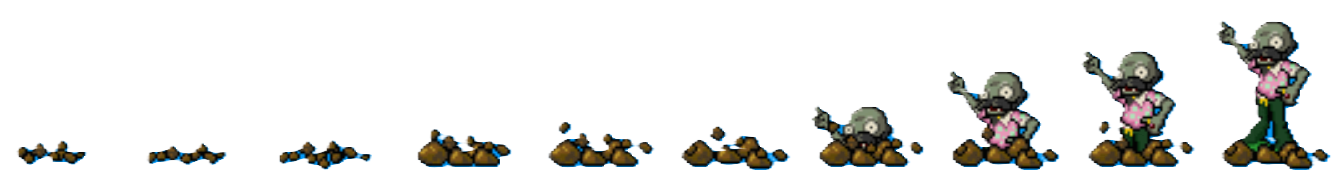
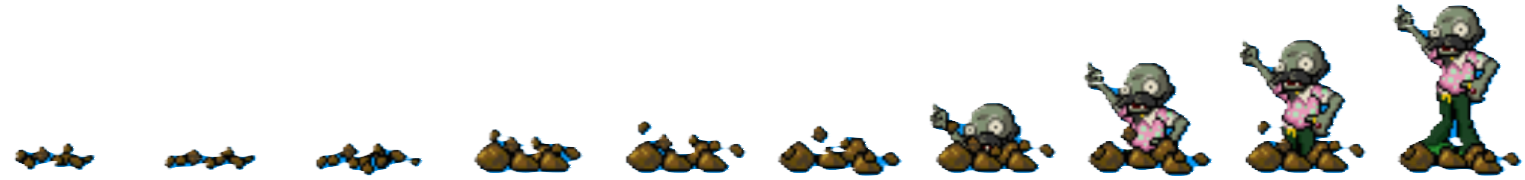
Football Zombie smoother movement Balloon Zombie Updated Background Textures Updated Main Menu Texture

Changed region(s): [[0.3069, 0.0282, 1.0, 0.9887], [0.0921, 0.791, 0.2762, 0.9887], [0.0, 0.791, 0.0614, 0.9322]]

diff --git a/PlayGameScreen.cpp b/PlayGameScreen.cpp
@@ -1,13 +1,23 @@
 #include "PlayGameScreen.h"
 #include "ZombieFactory.h"
 
+// Grid 
+// origin	  -->   [300px ,85px]
+// SE corner  -->   [1155px, 675px]
+// width	  -->	1155px - 300px = 855px
+// height	  -->	675px - 85px = 590px
+// tile		  -->	95px * 118px
+
+const int tile_dx = 95;
+const int tile_dy = 118;
+
 //Drawing the background
 void createBack(RenderWindow& window) {
 	//Drawing the background
 	Image map_image;
-	map_image.loadFromFile("./Images/backwindow.jpg");
+	//map_image.loadFromFile("./Images/backwindow.jpg");
 	//map_image.loadFromFile("./Images/lvl_1_w_back.png");   //"../SFML/Images/backwindow.jpg"
-	//map_image.loadFromFile("./Images/lvl_2_w_back.png");   //"../SFML/Images/backwindow.jpg"
+	map_image.loadFromFile("./Images/lvl_2_w_back.png");   //"../SFML/Images/backwindow.jpg"
 	//map_image.loadFromFile("./Images/lvl_5_w_back.png");   //"../SFML/Images/backwindow.jpg"
 	Texture map;
 	map.loadFromImage(map_image);
@@ -19,6 +29,9 @@ void createBack(RenderWindow& window) {
 
 //Drawing the map
 void createMap(RenderWindow& window) {
+
+	return;
+
 	//Drawing a map
 	Image map_image;//объект изображения для карты
 	map_image.loadFromFile("./Images/lvl_1_map.png");//load the file for the map
@@ -41,21 +54,7 @@ PlayGameScreen::PlayGameScreen()
 
 void PlayGameScreen::render()
 {
-	//window.create(VideoMode(1200, 700), "Game");
-	//while (window.isOpen())
-	//{
 
-	//	Event e;
-	//	while (window.pollEvent(e))
-	//	{
-	//		if (e.type == Event::Closed)
-	//			window.close();
-	//	}
-
-	//	window.clear();
-	//	window.draw(sprite);
-	//	window.display();
-	//}
 
 
 	srand(time(0));
@@ -93,7 +92,7 @@ void PlayGameScreen::render()
 
 	Clock clock;
 	Clock time;
-	window.setFramerateLimit(10);
+	window.setFramerateLimit(20);
 
 	//Zombie z1(200, 1, 20, 1000, 150);
 	ZombieFactory zf;
@@ -119,6 +118,11 @@ void PlayGameScreen::render()
 		{
 			if (event.type == Event::Closed)
 				window.close();
+
+
+
+			if (event.type == Event::MouseButtonReleased)
+				std::cout << "Game --> x: " << Mouse::getPosition(window).x << " y: " << Mouse::getPosition(window).y << "\n";
 		}
 
 

diff --git a/FootballZombie.cpp b/FootballZombie.cpp
@@ -2,15 +2,38 @@
 
 FootballZombie::FootballZombie(int health, int speed, int damage, int x, int y) : Zombie(health, speed, damage, x, y) 
 {
-	image.loadFromFile("./Images/ffzanimation.png");
+	switchTime = 0.15;
+	//image.loadFromFile("./Images/image_2_2.png");
 
-	texture.loadFromImage(image);
+	//texture.loadFromImage(image);
+	texture.loadFromFile("./Images/image_2_2.png");
 	sprite.setTexture(texture);
-	sprite.setTextureRect(IntRect(offset * 176, 0, 176, 196));
+	sprite.setTextureRect(IntRect(offset * 215, 0, 215, 180));
 
 
 
 	sprite.setPosition(Pos.x, Pos.y);
+}
+
+void FootballZombie::switchLane(int dir)
+{
+	if (dir == 0)
+	{
+		Pos.y += speed * 3;
+		if (Pos.y >= 118 * 3 + 85 - 180 && Pos.y <= 118 * 4 + 85 - 180)
+			switchRow = 2;
+
+		return;
+	}
+
+	if (dir == 1)
+	{
+		Pos.y -= speed * 3;
+		if (Pos.y >= 118 * 0 + 85 - 180 && Pos.y <= 118 * 1 + 85 - 180)
+			switchRow = 2;
+
+		return;
+	}
 }
 
 void FootballZombie::UpdateAnimation(float deltaTime)
@@ -21,20 +44,20 @@ void FootballZombie::UpdateAnimation(float deltaTime)
 		Total_Animation_Time -= switchTime;
 		offset++;
 
-		if (offset == 3)
+		if (offset == 6)
 			offset = 0;
 	}
 	
-	if (health >= 300)
-	{
-		sprite.setTextureRect(IntRect(offset * 176, 0, 176, 196));
-		return;
-	}
+	//if (health >= 300)
+	//{
+		sprite.setTextureRect(IntRect(offset * 215, 0, 215, 180));
+	//	return;
+	//}
 
 
 
-	texture.loadFromFile("./Images/hfzanimation.png");
-	sprite.setTextureRect(IntRect(offset * 237, 0, 237, 212));
+	//texture.loadFromFile("./Images/hfzanimation.png");
+	//sprite.setTextureRect(IntRect(offset * 237, 0, 237, 212));
 
 }
 
@@ -45,15 +68,16 @@ void FootballZombie::Move()
 
 	int random = rand() % 20;
 	
-	if (random == 0 && Pos.y <= 514 - 108)
+	if (random == 0 && Pos.y <= 118*4 + 85 - 180)
 	{
-		Pos.y += 108;
+		switchRow = 0;
 	}
 
-	if (random == 19 && Pos.y >= 62 + 108)
+	if (random == 19 && Pos.y >= 118*0 + 85)
 	{
-		Pos.y -= 108;
+		switchRow = 1;
 	}
 
+	switchLane(switchRow);
 	sprite.setPosition(Pos.x, Pos.y);
 }

diff --git a/Zombie.cpp b/Zombie.cpp
@@ -1,12 +1,16 @@
 #include "Zombie.h"
 
-Zombie::Zombie(int health, int speed, int damage, int x, int y) :Pos(x, y), health(health), speed(speed), damage(damage), offset(0), Total_Animation_Time(0), switchTime(0.6)
+Zombie::Zombie(int health, int speed, int damage, int x, int y, int pixelsX, int pixelsY) 
+	: Pos(x, y), health(health), speed(speed), damage(damage), offset(0), Total_Animation_Time(0), switchTime(0.3), pixelsX(pixelsX), pixelsY(pixelsY)
 {
-	image.loadFromFile("./Images/zanimation2.png");
+	//switchTime = 0.15;
+	//image.loadFromFile("./Images/zanimation2.png");
+	//image.loadFromFile("./Images/zombie.png");
 
-	texture.loadFromImage(image);
+	//texture.loadFromImage(image);
+	texture.loadFromFile("./Images/zombie.png");
 	sprite.setTexture(texture);
-	sprite.setTextureRect(IntRect(offset * 120, 0, 120, 190));
+	sprite.setTextureRect(IntRect(0, 0, pixelsX, pixelsY));
 	sprite.setPosition(Pos.x, Pos.y);
 }
 
@@ -29,10 +33,10 @@ void Zombie::UpdateAnimation(float deltaTime)
 		Total_Animation_Time -= switchTime;
 		offset++;
 
-		if (offset > 2)
+		if (offset == 5)
 			offset = 0;
 	}
-	sprite.setTextureRect(IntRect(offset * 120, 0, 120, 190));
+	sprite.setTextureRect(IntRect(offset * pixelsX, 0, pixelsX, pixelsY));
 }
 
 void Zombie::Move()
@@ -50,5 +54,5 @@ int Zombie::getHealth() const
 
 int randGrid(int Y_pixels)
 {
-	return (108 * (rand() % 5 - 1)) + Y_pixels;
+	return (118 * (rand() % 4 + 1 )) + 85 - Y_pixels;
 }

diff --git a/BalloonZombie.cpp b/BalloonZombie.cpp
@@ -1,0 +1,53 @@
+#include "BalloonZombie.h"
+
+BalloonZombie::BalloonZombie(int health, int speed, int damage, int x, int y) : Zombie(health,speed,damage,x,y), ballonIsPopped(false), pixelsX(150), pixelsY(210)
+{
+	texture.loadFromFile("./Images/balloon.png");
+	
+	sprite.setTexture(texture);
+	sprite.setTextureRect(IntRect(0, 0, pixelsX, pixelsY));
+}
+
+void BalloonZombie::UpdateAnimation(float deltaTime)
+{
+	if (health <= 150)
+		ballonIsPopped = true;
+
+	if (ballonIsPopped)
+	{
+		pixelsX = 164;
+		pixelsY = 180;
+		speed = 1;
+		texture.loadFromFile("./Images/zombie.png");
+		sprite.setTexture(texture);
+		sprite.setTextureRect(IntRect(0, 0, pixelsX, pixelsY));
+	}
+
+	Total_Animation_Time += deltaTime;
+	if (Total_Animation_Time >= switchTime)
+	{
+		Total_Animation_Time -= switchTime;
+		offset++;
+		if (offset == 3)
+			offset = 0;
+
+	}
+
+	sprite.setTextureRect(IntRect(offset * pixelsX, 0, pixelsX, pixelsY));
+}
+
+//void BalloonZombie::fly()
+//{
+//
+//}
+
+void BalloonZombie::move()
+{
+	Pos.x -= speed;
+
+	// Testing
+	health -= 2;
+	//========
+	
+	sprite.setPosition(Pos.x, Pos.y);
+}

diff --git a/Zombie.h b/Zombie.h
@@ -13,17 +13,19 @@ protected:
 	int speed;
 	int damage;
 
-	Image image;
+	//Image image;
 	float Total_Animation_Time;
 	float switchTime;
 	int offset;
+	int pixelsX;
+	int pixelsY;
 	
 	Texture texture;
 	Sprite sprite;
 	coordinates Pos;
 
 public:
-	Zombie(int=200, int=1, int=5, int=1000, int=randGrid(190));
+	Zombie(int=200, int=1, int=5, int=1000, int=randGrid(180), int=164, int=180);
 	virtual void Draw(RenderWindow&, float);
 	virtual void Move();
 	virtual void UpdateAnimation(float interval);

diff --git a/ZombieFactory.cpp b/ZombieFactory.cpp
@@ -58,7 +58,7 @@ void ZombieFactory::spawnZombie()
 	if (num_Of_Zombie >= zombie_Limit)
 		return;
 
-	switch (rand() % 3)
+	switch (rand() % 4)
 	{
 		case 0:
 			zombies[num_Of_Zombie] = new Zombie;
@@ -71,6 +71,11 @@ void ZombieFactory::spawnZombie()
 		case 2:
 			zombies[num_Of_Zombie] = new DancingZombie;
 			break;
+
+		case 3:
+			zombies[num_Of_Zombie] = new BalloonZombie;
+			break;
+
 	}
 	num_Of_Zombie++;
 }

diff --git a/DancingZombie.h b/DancingZombie.h
@@ -10,7 +10,7 @@ class DancingZombie : public Zombie
 	Clock clock;
 
 public:
-	DancingZombie(float = 10, int = 4, int = 200, int = 1, int = 5, int = 1000, int = randGrid(170));
+	DancingZombie(float = 10, int = 4, int = 200, int = 1, int = 5, int = 1000, int = randGrid(180));
 	void SpawnBackUp();
 	void UpdateAnimation(float deltaTime);
 	void Draw(RenderWindow&, float);

diff --git a/FootballZombie.h b/FootballZombie.h
@@ -6,10 +6,13 @@ class FootballZombie : public Zombie
 {
 
 //	int offset_y = 0;
-
+	int switchRow = 2;
 public:
-	FootballZombie(int = 600, int = 3, int = 8, int = 1000, int = randGrid(170));
+	FootballZombie(int = 600, int = 3, int = 8, int = 1000, int = randGrid(180));
 	void UpdateAnimation(float deltaTime);
 	void Move();
+	void switchLane(int);
+
+
 };
 

diff --git a/BalloonZombie.h b/BalloonZombie.h
@@ -1,0 +1,16 @@
+#pragma once
+#include "Zombie.h"
+class BalloonZombie :public Zombie
+{
+
+	bool ballonIsPopped;
+	int pixelsX;
+	int pixelsY;
+public:
+	BalloonZombie(int=200,int=3,int=5,int=1000,int=randGrid(180));
+	void UpdateAnimation(float deltaTime);
+	//void fly();
+	void move();
+
+};
+

diff --git a/BackUpDancer.cpp b/BackUpDancer.cpp
@@ -60,7 +60,7 @@ void BackUpDancer::SpawnAnimation(float deltaTime)
 		}
 	}
 
-	sprite.setTextureRect(IntRect(offset * 134, 0, 134, 177));
+	sprite.setTextureRect(IntRect(offset * 153, 0, 153, 180));
 	sprite.setPosition(Pos.x, Pos.y);
 }
 

diff --git a/ZombieFactory.h b/ZombieFactory.h
@@ -3,6 +3,7 @@
 #include"FootballZombie.h"
 #include"DancingZombie.h"
 #include"BackUpDancer.h"
+#include"BalloonZombie.h"
 #include<iostream>
 #include<ctime>
 
